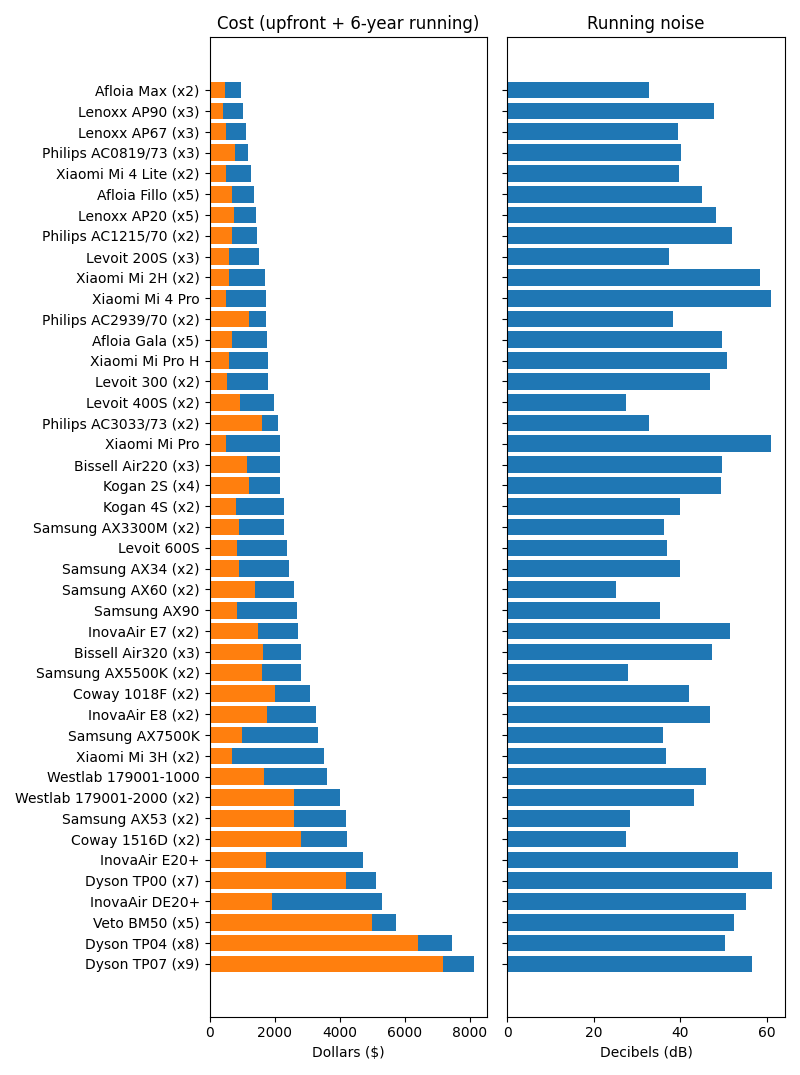
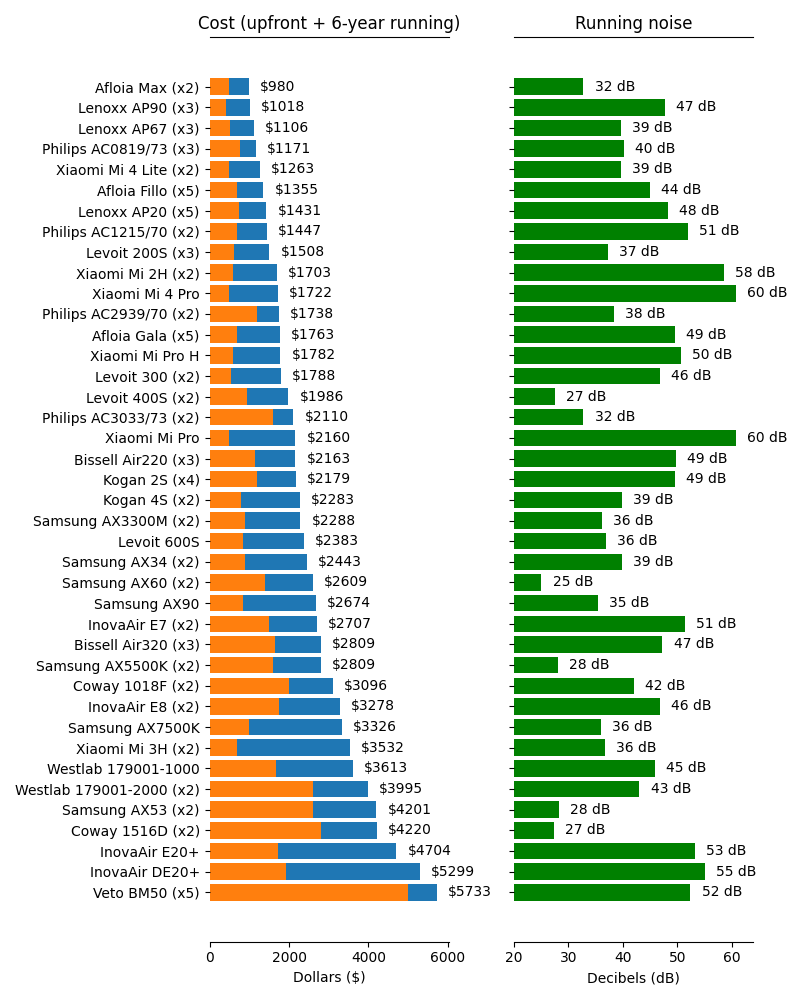
Quick push

diff --git a/aircleaning/produce.py b/aircleaning/produce.py
@@ -20,6 +20,7 @@ def cost_analysis(data, volume, quality, path=productsdir, name='default'):
 
     data = analyse.cost_analysis(data, volume, quality)
     data = data.sort_values('nominal')
+    data = data.loc[data['nunits'] < 6]
     data['fullname'] = tuple(map(
         ''.join, zip(
             map(' '.join, data.index),
@@ -34,18 +35,27 @@ def cost_analysis(data, volume, quality, path=productsdir, name='default'):
 
     y_pos = np.arange(len(data))
 
-    ax1.barh(y_pos, data['nominal'])
+    bars = ax1.barh(y_pos, data['nominal'])
     ax1.barh(y_pos, data['upfront'])
     ax1.set_yticks(y_pos, labels=data['fullname'])
     ax1.invert_yaxis()  # labels read top-to-bottom
     ax1.set_xlabel('Dollars ($)')
     ax1.set_title('Cost (upfront + 6-year running)')
+    ax1.bar_label(bars, label_type='edge', padding=8, fmt='$%d')
+    # ax1.spines['top'].set_visible(False)
+    ax1.spines['right'].set_visible(False)
+    ax1.spines['left'].set_visible(False)
 
-    ax2.barh(y_pos, data['noise'])
+    bars = ax2.barh(y_pos, data['noise'], color='green')
     ax2.set_yticks(y_pos, labels=[])
     ax2.invert_yaxis()  # labels read top-to-bottom
     ax2.set_xlabel('Decibels (dB)')
     ax2.set_title('Running noise')
+    ax2.set_xlim(20)
+    ax2.bar_label(bars, label_type='edge', padding=8, fmt='%d dB')
+    # ax2.spines['top'].set_visible(False)
+    ax2.spines['right'].set_visible(False)
+    ax2.spines['left'].set_visible(False)
 
     # title = f"Air cleaner choices: a {volume}-sized room with {quality} air quality"
     # fig.suptitle(title, fontproperties=dict(weight='heavy'))
